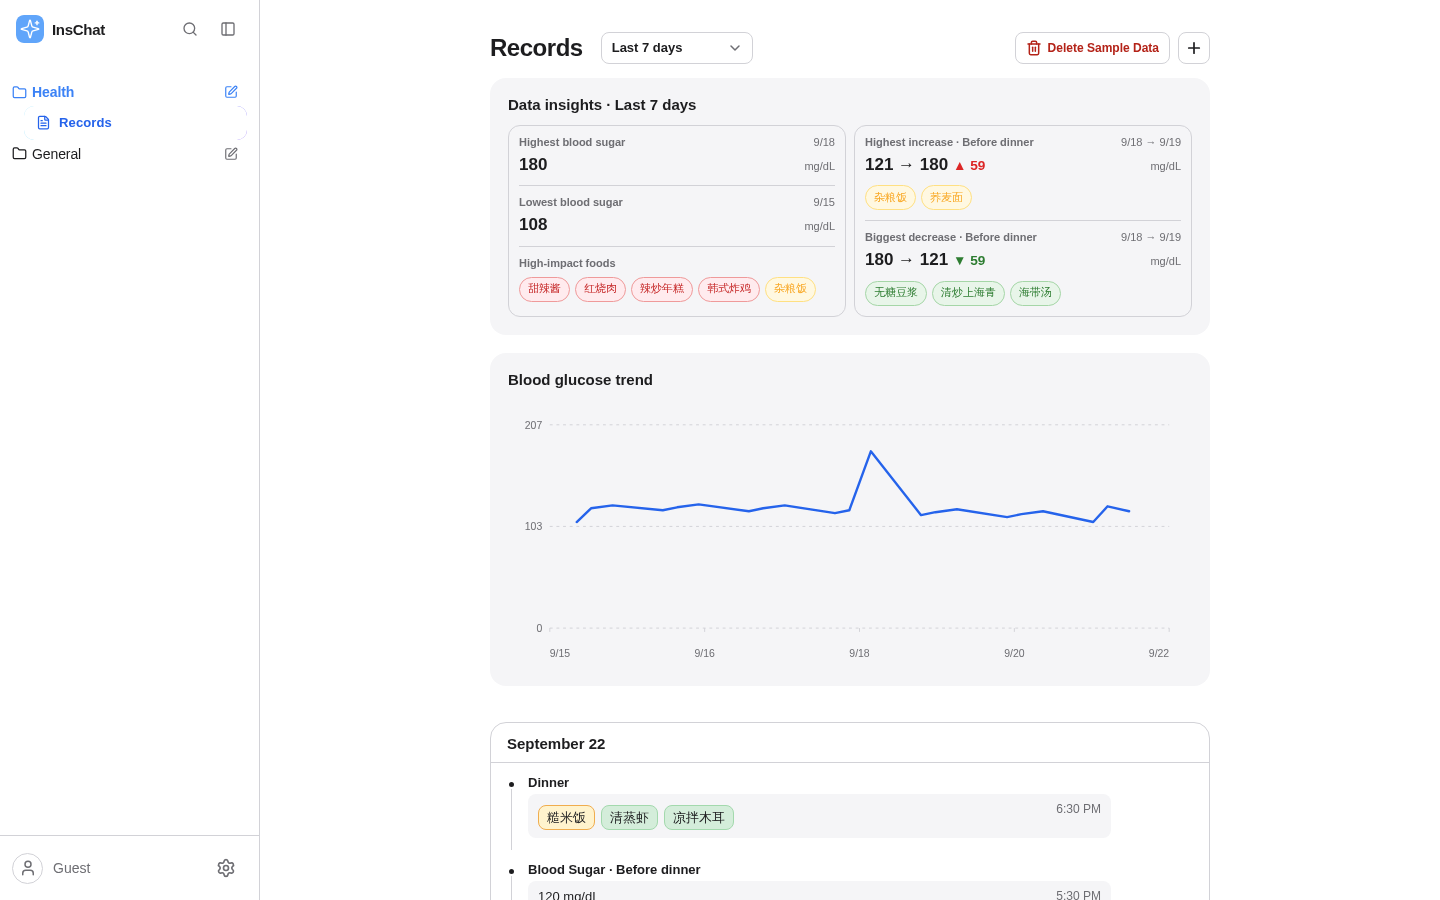
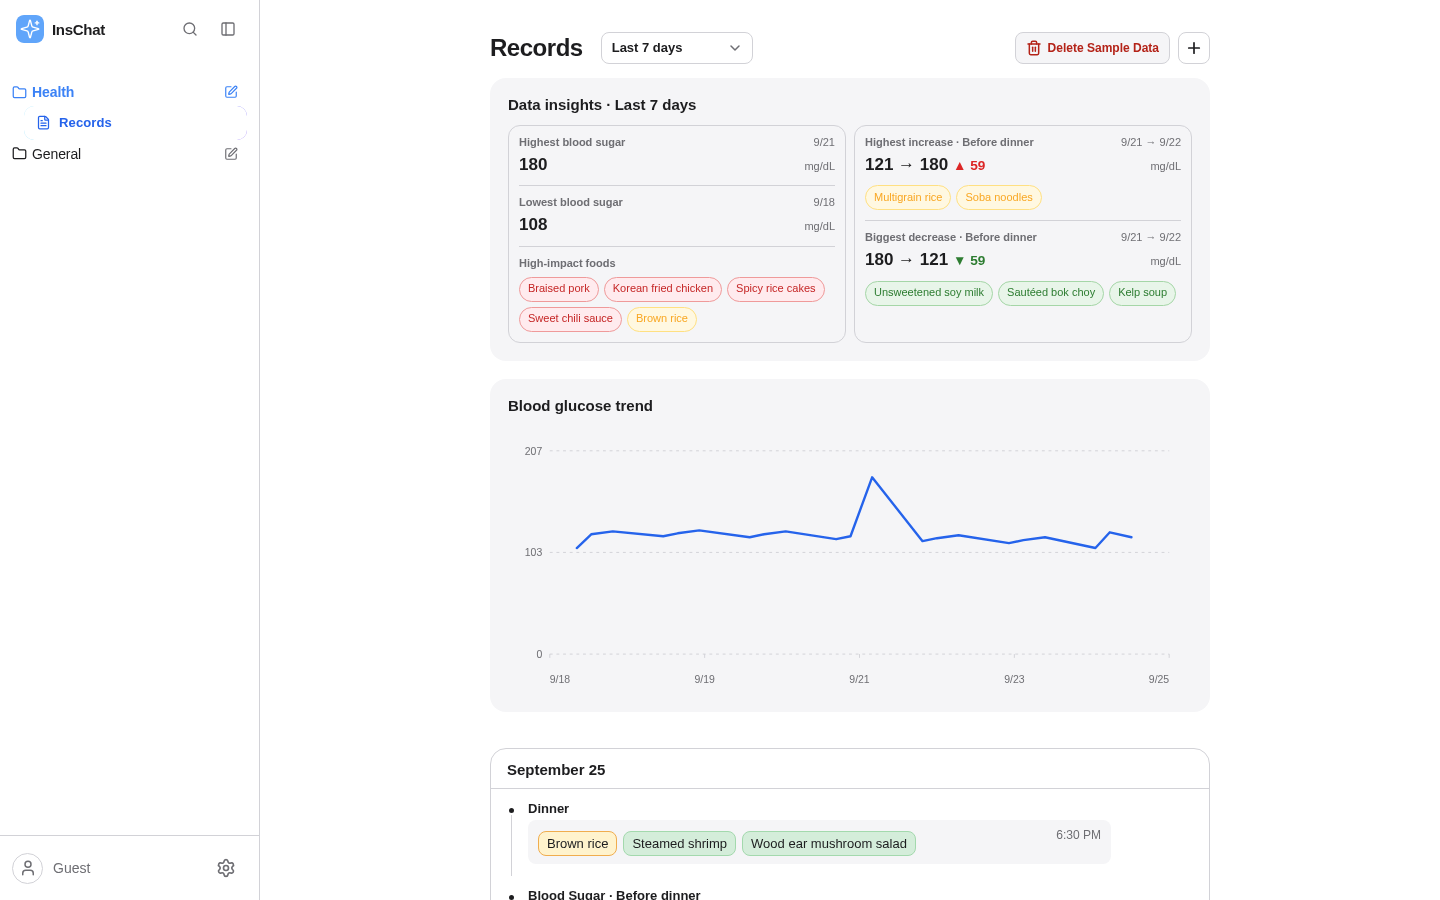
Refresh InsChat records screenshot

diff --git a/EXPERIENCES.md b/EXPERIENCES.md
@@ -2589,3 +2589,21 @@ Companion file: `PORTFOLIO_PLAN.md` (read-first handoff + roadmap).
 ### Disproved
 
 - The previous empty General welcome screen did not demonstrate the completed General chat workflow.
+
+---
+
+## 2026-09-24 — InsChat section 03 English Records capture
+
+### Solved
+
+- Cleared the local Records demo state and reloaded the example dataset for the showcase capture.
+- Replaced the Chinese meal labels with English labels while preserving the real Records page, insights cards, glucose chart, and timeline.
+- Replaced section 03’s asset with a full 1440×900 Light-theme Records capture.
+
+### Unresolved
+
+- None for the section 03 showcase screenshot.
+
+### Disproved
+
+- Changing only the interface language did not translate the existing hardcoded demo meal names.
